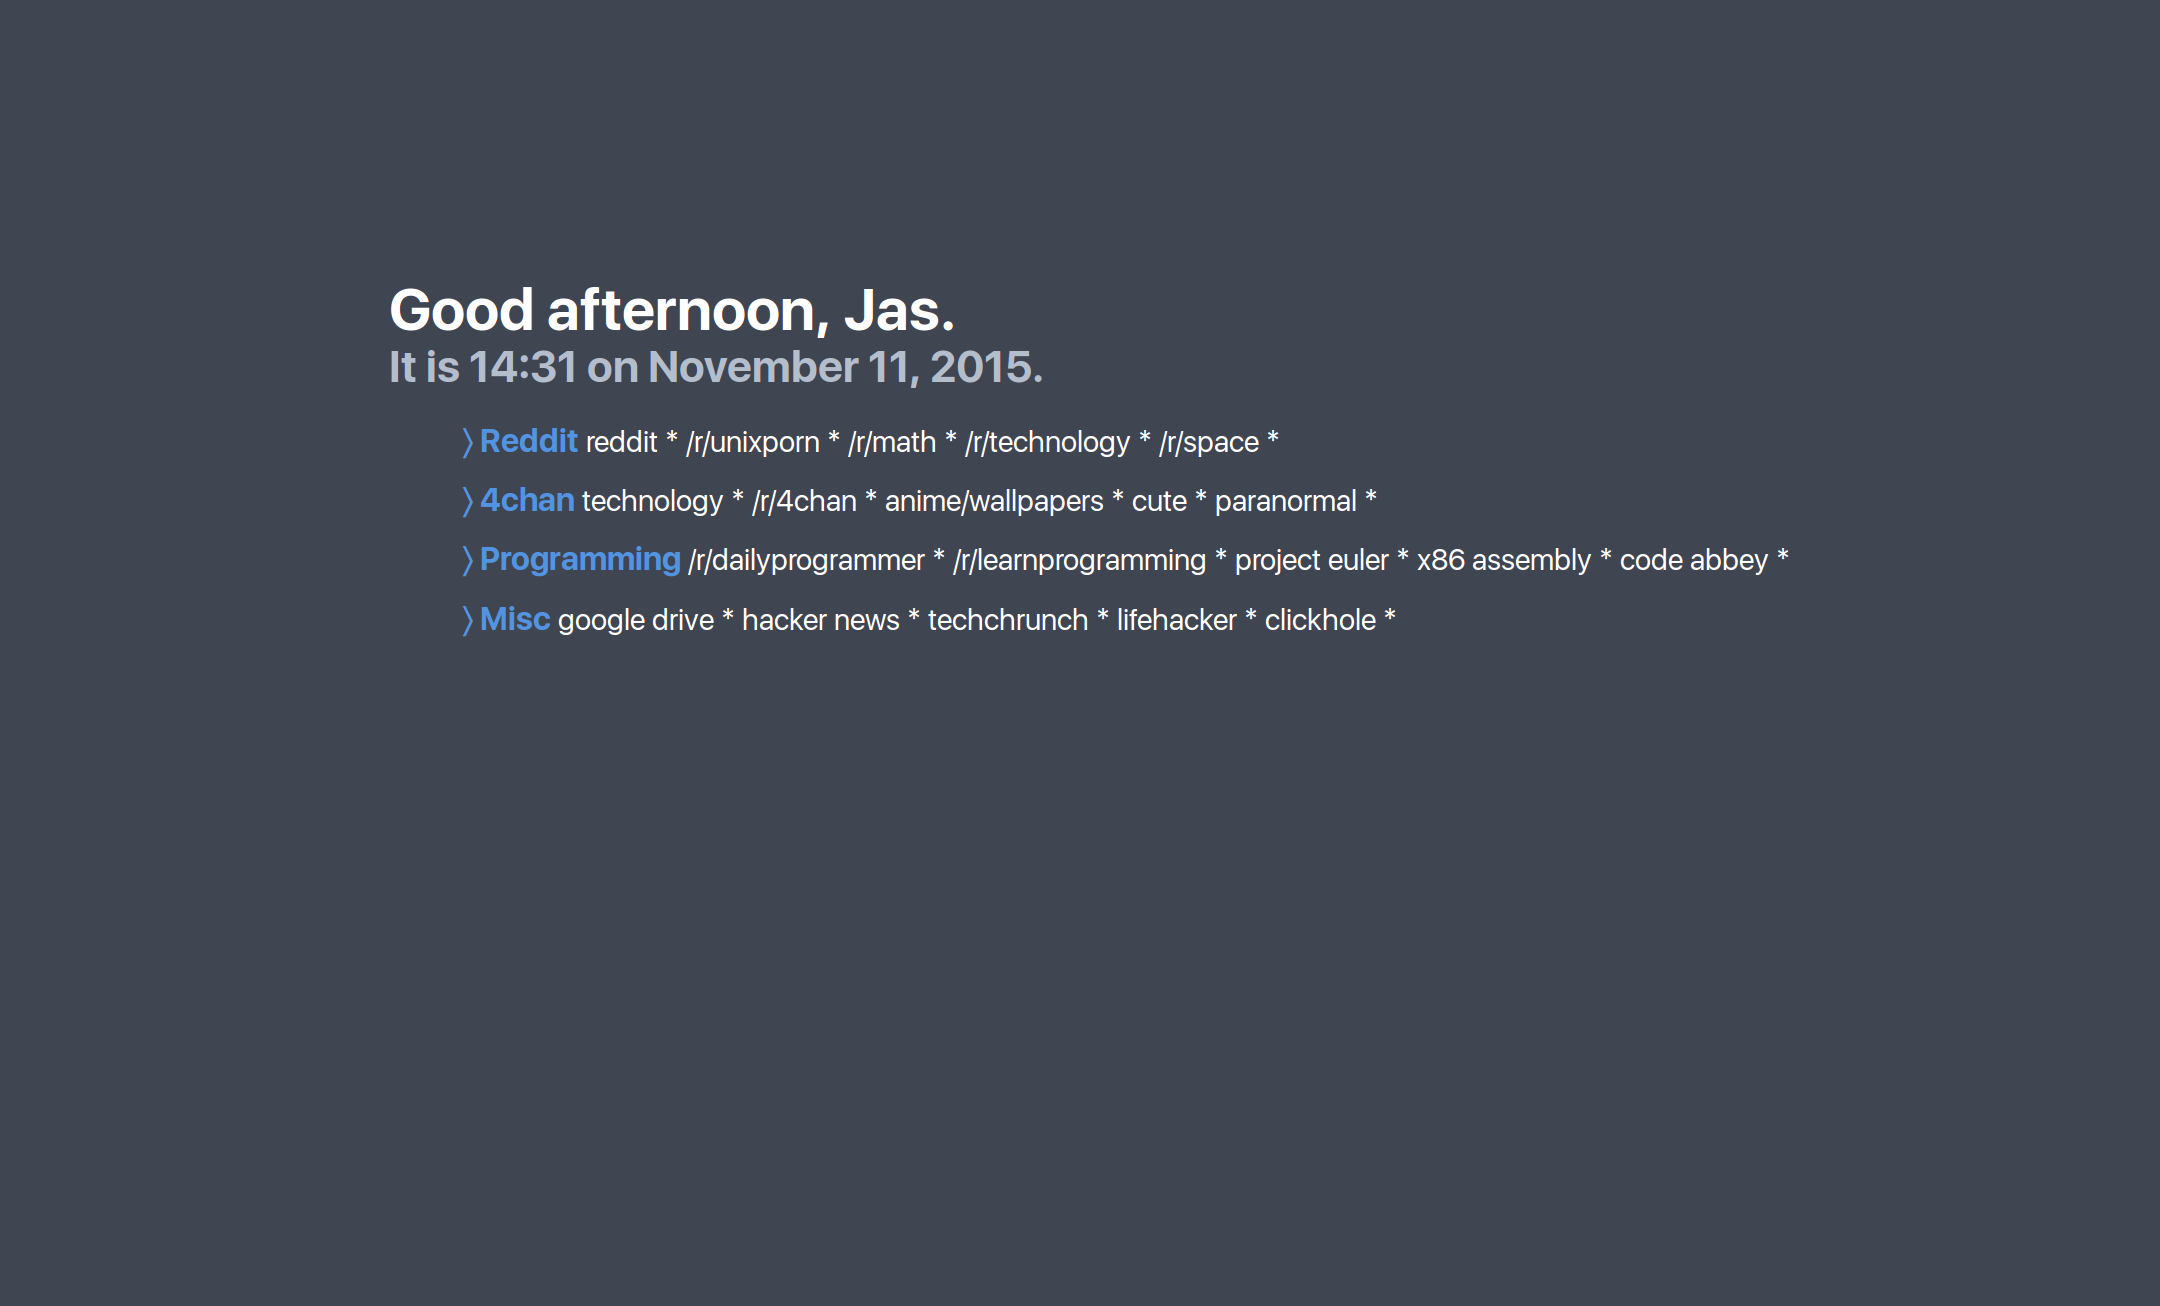
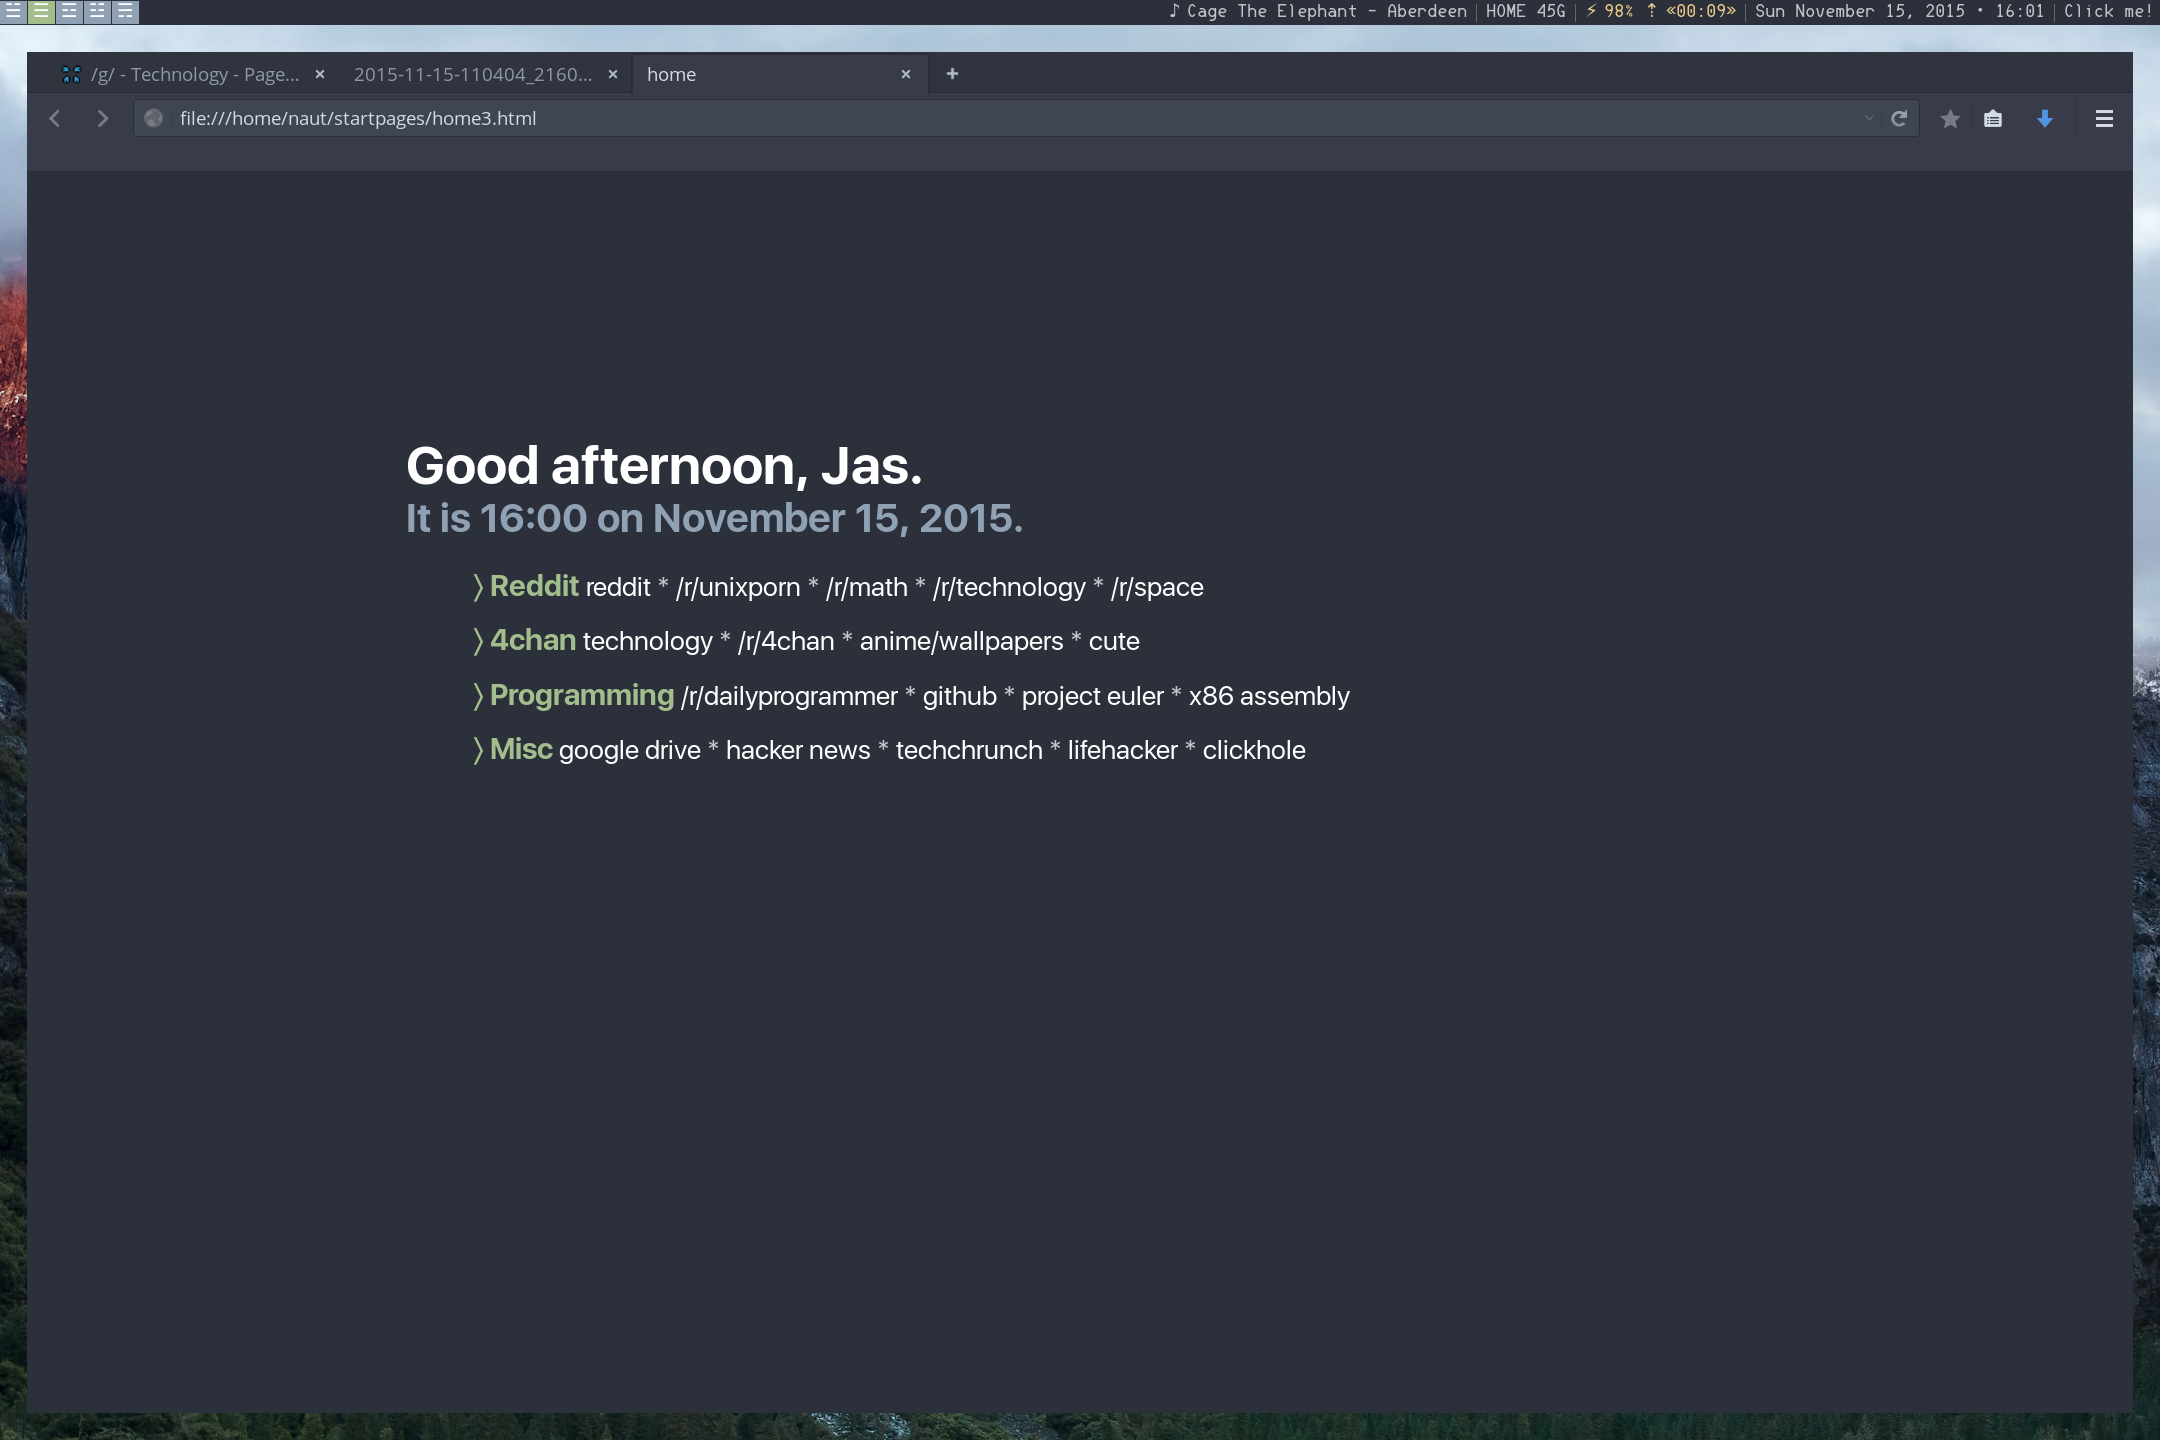
messed with home 3 colors, removed some links, and updated corresponding screenshot

diff --git a/home3.html b/home3.html
@@ -51,8 +51,7 @@
 		<li><a class="link" href="http://boards.4chan.org/g/">technology</a> * </li>
 		<li><a class="link" href="https://www.reddit.com/r/4chan">/r/4chan</a> * </li>
 		<li><a class="link" href="http://boards.4chan.org/w/">anime/wallpapers</a> * </li>
-		<li><a class="link" href="http://boards.4chan.org/c/">cute</a> * </li>
-		<li><a class="link" href="http://boards.4chan.org/x/">paranormal</a></li>
+		<li><a class="link" href="http://boards.4chan.org/c/">cute</a></li>
 	</ul>
 	<br>
 	<ul>
@@ -60,8 +59,7 @@
 		<li><a class="link" href="https://www.reddit.com/r/dailyprogrammer">/r/dailyprogrammer</a> * </li>
 		<li><a class="link" href="https://github.com/jastronaut?tab=repositories">github</a> * </li>
 		<li><a class="link" href="https://projecteuler.net/">project euler</a> * </li>
-		<li><a class="link" href="https://en.wikibooks.org/wiki/X86_Assembly">x86 assembly</a> * </li>
-		<li><a class="link" href="http://www.codeabbey.com">code abbey</a></li>
+		<li><a class="link" href="https://en.wikibooks.org/wiki/X86_Assembly">x86 assembly</a></li>
 	</ul>
 	<ul>
 		<li class="cat">&#9002; Misc</li>

diff --git a/home3.css b/home3.css
@@ -4,7 +4,7 @@
 */
 
 body{
-	background-color: #404552;
+	background-color: #2B303B;
 }
 
 main{
@@ -23,7 +23,7 @@ h1{
 }
 
 h2{
-	color: #B3BDCB;
+	color: #8FA1B3;
 	line-height: 10px;
 }
 
@@ -33,7 +33,7 @@ ul{
 }
 
 .cat{
-	color: #5294E2;
+	color: #A3BE8C;
 	font-weight: bold;
 	font-size: 110%;	
 }
@@ -41,7 +41,7 @@ ul{
 li{
 	list-style: none;
 	display: inline-block;
-	color: #B3BDCB;
+	color: #C0C5CE;
 }
 
 a:visited{
